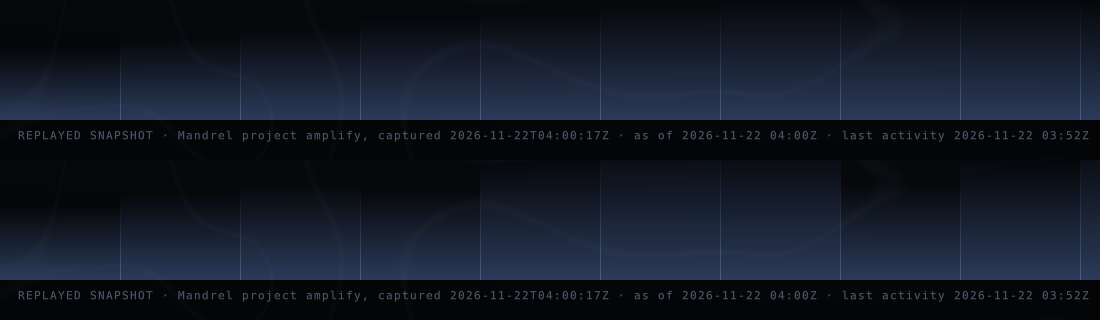
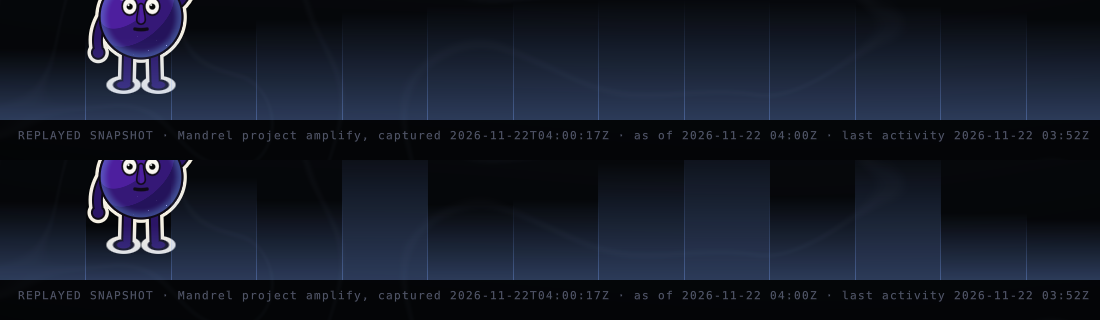
Polish: ambient field clears the basin column, stat notes wrap whole, install README notes
- AmbientLayer: clearRight (Service.qml: the basin's 552 px column) keeps music light
  out from behind the translucent basin cards (desktop look 7632b63d).
- Panes: stat tile notes (TASKS IN FLIGHT's subtext and the others) wrap instead of
  eliding; every tile takes the tallest tile's height; each note logs its layout.
- basin shot: lower basin card shows no ambient light; every stat note drawn whole.
- panes shot: stats part checks notes at 1920x1080 and 2560x1440, writes panes-stats.png.
- README: run tools/install-plugin.sh --remove before omarchy plugin add over a checkout
  install (finding de86ef21); omarchy plugin update's pager (q, or GIT_PAGER=cat).
- mutations: PL1-ambient-under-basin, PL2-stat-note-one-line (basin-shot).

Task 32f5427b-325f-4518-879e-c45e61f8ad78

Amp-Thread-ID: https://ampcode.com/threads/T-01a21d53-ce16-746f-a391-6b6f97f22bc6

diff --git a/plugin/panes/Panes.qml b/plugin/panes/Panes.qml
@@ -138,16 +138,30 @@ Item {
     Grid {
       id: stats
       columns: 4; columnSpacing: 8
+      // Every tile as tall as the tallest: a note that does not fit on one line wraps, whole,
+      // instead of being cut (task 32f5427b: "most in verifying · 12 merged" in JetBrains Mono).
+      property real tileHeight: 66
+      function fit() {
+        var h = 66
+        for (var i = 0; i < tiles.count; i++) { var t = tiles.itemAt(i); if (t) h = Math.max(h, t.need) }
+        tileHeight = h
+      }
       Repeater {
+        id: tiles
         model: panes.model.stats
+        onItemAdded: stats.fit()
+        onItemRemoved: stats.fit()
         Rectangle {
           id: tile
           required property var modelData
-          width: (body.width - 3 * stats.columnSpacing) / 4; height: 66; radius: 11
+          readonly property real need: tileCol.y + tileCol.implicitHeight + 7
+          onNeedChanged: stats.fit()
+          width: (body.width - 3 * stats.columnSpacing) / 4; height: stats.tileHeight; radius: 11
           readonly property color tint: tile.modelData.warm ? panes.warm : panes.cool
           color: Qt.rgba(tile.tint.r, tile.tint.g, tile.tint.b, tile.modelData.warm ? 0.12 : 0.05)
           border.width: 1; border.color: Qt.rgba(tile.tint.r, tile.tint.g, tile.tint.b, tile.modelData.warm ? 0.4 : 0.14)
           Column {
+            id: tileCol
             x: 12; y: 7; width: parent.width - 24; spacing: 1
             Text {
               text: tile.modelData.value
@@ -161,10 +175,17 @@ Item {
               font.family: panes.mono; font.pixelSize: 9; font.letterSpacing: 1.1
             }
             Text {
-              width: parent.width; elide: Text.ElideRight
+              id: note
+              width: parent.width; wrapMode: Text.Wrap
               text: tile.modelData.note
               color: tile.modelData.warm ? "#b08f80" : panes.dim
               font.family: panes.mono; font.pixelSize: 10
+              // The note as laid out, for the whole-note check (plugin/basin/test/shot.sh):
+              // "<lines> <truncated> <natural width> <width> <bottom in the tile> <tile height>".
+              readonly property string laid: [lineCount, truncated ? 1 : 0, Math.ceil(implicitWidth), Math.floor(width),
+                Math.round(tileCol.y + y + height), Math.round(tile.height)].join(" ")
+              onLaidChanged: console.log("amplify: panes" + (panes.screenName ? "@" + panes.screenName : "") + " note "
+                                         + tile.modelData.key + " " + laid + " " + text)
             }
           }
         }

diff --git a/plugin/Service.qml b/plugin/Service.qml
@@ -158,7 +158,9 @@ Item {
   // live, its own fetch (defect a5d1ffa7).
   Shared.SceneClock { id: sharedClock }
   // The ambient music field (task 523461dd): its own layer, made first so it sits below the others.
-  AmbientLayer { sceneClock: sharedClock; accent: root.accent; animate: !root.still; trace: root.trace; logFps: root.logFps }
+  // It leaves the basin's column dark (Basin.qml width 500, its right margin 28 below, and a 24 px gap).
+  AmbientLayer { sceneClock: sharedClock; accent: root.accent; animate: !root.still; trace: root.trace; logFps: root.logFps
+                 clearRight: 28 + 500 + 24 }
   OrbsLayer { id: orbsLayer; sceneClock: sharedClock; accent: root.accent; foreground: root.foreground; animate: !root.still; trace: root.trace; logFps: root.logFps
               focusOnClick: true; onFocusRequested: (f, id, x, y, r, scr) => focusLayer.open(f, id, x, y, r, scr) }
   // The focused orb (task 85ff482a): a clicked orb flies to the centre as Meridian; no window until then.

diff --git a/plugin/ambient/AmbientLayer.qml b/plugin/ambient/AmbientLayer.qml
@@ -25,6 +25,9 @@ Item {
   property bool animate: true
   property bool trace: false
   property bool logFps: false
+  // Pixels at the right of each screen the field leaves dark: the basin's column (Service.qml),
+  // so no music light shows through its translucent cards (task 32f5427b).
+  property int clearRight: 0
 
   readonly property var base: A.fieldBase(sceneClock ? sceneClock.scene : null)
 
@@ -121,10 +124,12 @@ Item {
 
       // The field rests on a line above the foot's caption strip (task 205c319c): the orbs'
       // scene caption (OrbField.qml: 18 px from the bottom, one 11 px line) stays on dark.
+      // It stops short of the basin's column (clearRight, task 32f5427b).
       Item {
         id: field
         anchors.fill: parent
         anchors.bottomMargin: 40
+        anchors.rightMargin: ambient.clearRight
         Repeater {
           model: A.BARS
           Rectangle {

diff --git a/README.md b/README.md
@@ -10,6 +10,9 @@ omarchy plugin add https://github.com/RidgetopAi/amplify --enable
 
 The repo root is the plugin. `manifest.json` points at `plugin/Service.qml`, and the compiled shaders and shared copies are committed, so `plugin add` needs no build step. Remove it with `omarchy plugin remove ridgetopai.amplify`, and update it with `omarchy plugin update ridgetopai.amplify`.
 
+- **Moving from a checkout install:** if you installed Amplify earlier with `tools/install-plugin.sh`, run `tools/install-plugin.sh --remove` from that checkout before `omarchy plugin add`. Otherwise `plugin add` stops with `plugin id 'ridgetopai.amplify' is already used by ~/.config/omarchy/plugins/ridgetopai.amplify/manifest.json`, and the shell keeps loading the old checkout.
+- **Updating:** `omarchy plugin update` shows the incoming diff in git's pager. Press `q` to leave it, or run `GIT_PAGER=cat omarchy plugin update ridgetopai.amplify` to print the diff without a pager.
+
 To work from a checkout instead, run `tools/install-plugin.sh`. It links `plugin/`, rebuilds the shaders (this needs `qt6-shadertools`) and enables the plugin. `tools/install-plugin.sh --remove` undoes it.
 
 ## Connect to Mandrel (optional)
